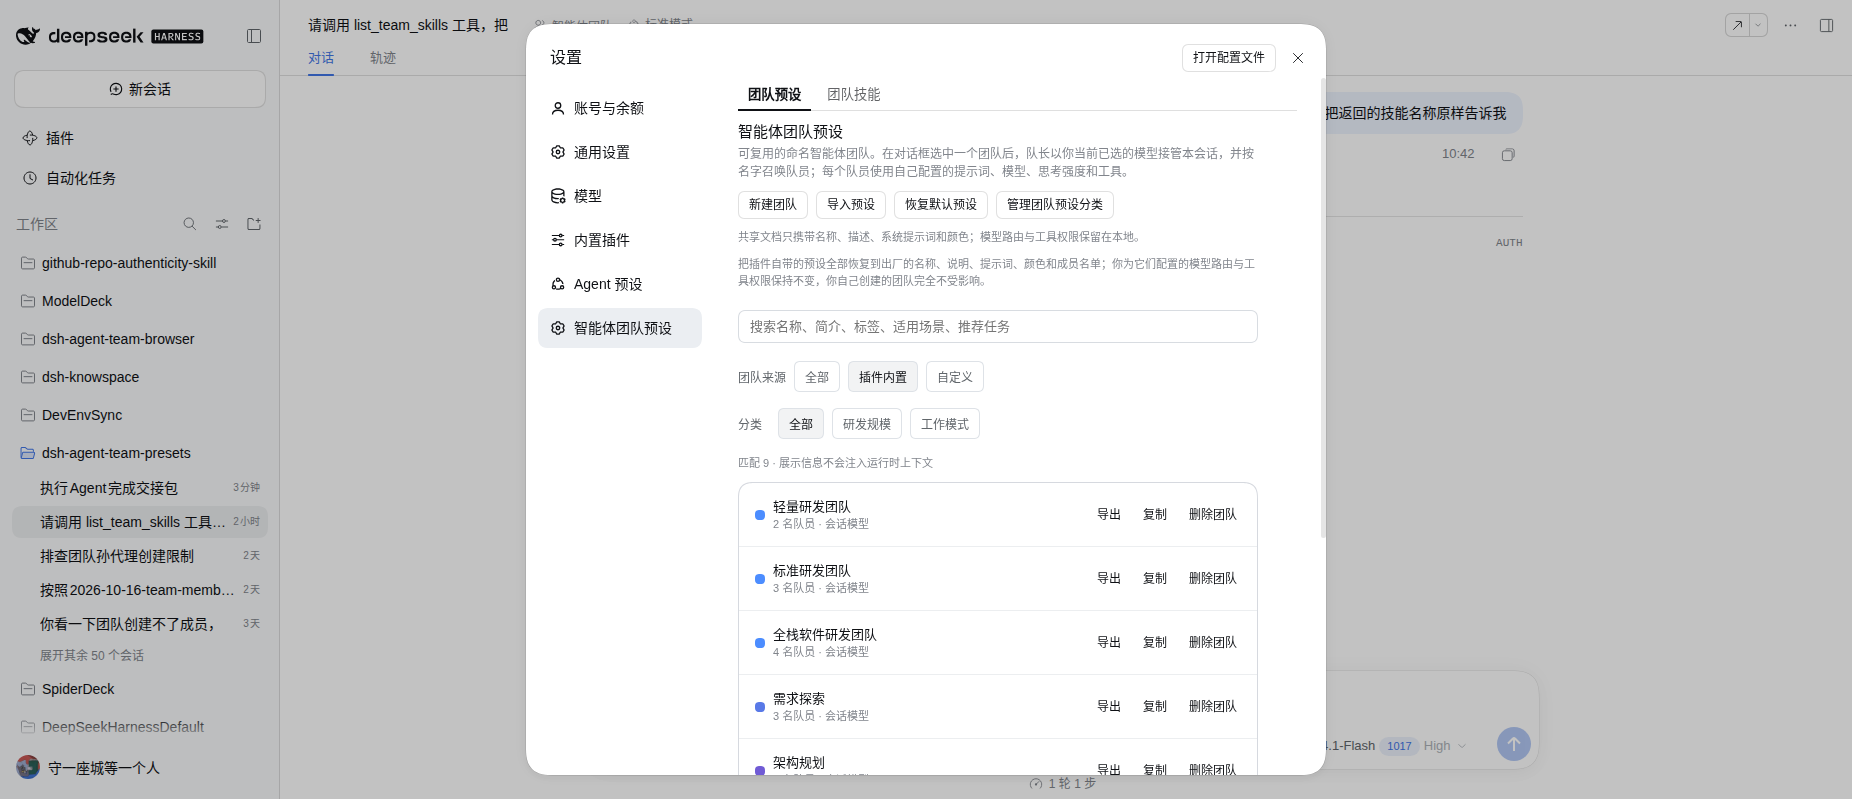
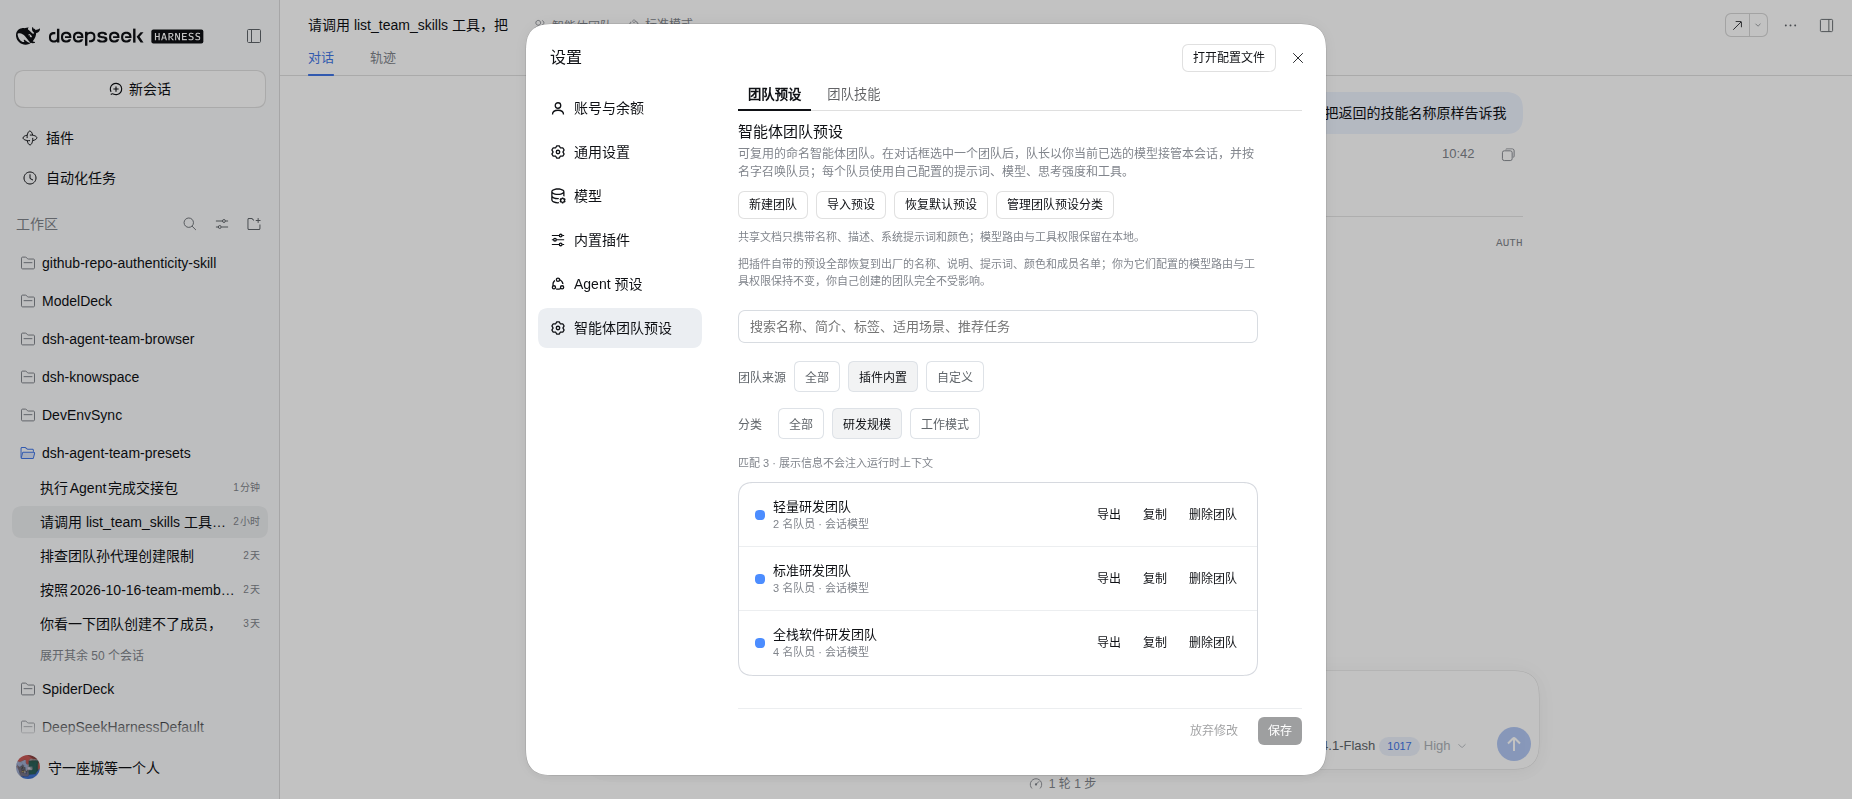
Make the two category sets mutually exclusive
The category row held two independent filters (shipped series and the reader's own
categories) and ANDed them, so picking 666 after 研发规模 left both highlighted and
the list at zero — a Team cannot belong to both.

Selecting either set now clears the other, 全部 always clears both, and the row is
verified step by step in the browser: 666 -> 0 (no Team in it), 研发规模 -> 3 with
666 dropped, built-in source hides the custom chips entirely.

diff --git a/lib/client.js b/lib/client.js
@@ -16666,26 +16666,26 @@ Set the \`cycles\` parameter to \`"ref"\` to resolve cyclical schemas with defs.
 			document.head.appendChild(style);
 		}
 		var ComposerTeamSelect_module_css_default = {
-			"popList": "Q4LFCW_popList",
-			"triggerLabel": "Q4LFCW_triggerLabel",
-			"popChips": "Q4LFCW_popChips",
-			"trigger": "Q4LFCW_trigger",
+			"accentDot": "Q4LFCW_accentDot",
+			"popHead": "Q4LFCW_popHead",
+			"popChipActive": "Q4LFCW_popChipActive",
+			"popover": "Q4LFCW_popover",
+			"failure": "Q4LFCW_failure",
 			"popClose": "Q4LFCW_popClose",
 			"popChip": "Q4LFCW_popChip",
-			"popChipActive": "Q4LFCW_popChipActive",
-			"failure": "Q4LFCW_failure",
-			"popOptionActive": "Q4LFCW_popOptionActive",
-			"popSearch": "Q4LFCW_popSearch",
-			"popHead": "Q4LFCW_popHead",
-			"wrap": "Q4LFCW_wrap",
-			"accentDot": "Q4LFCW_accentDot",
-			"popOptionSub": "Q4LFCW_popOptionSub",
-			"triggerIcon": "Q4LFCW_triggerIcon",
-			"popover": "Q4LFCW_popover",
-			"popOption": "Q4LFCW_popOption",
+			"popChips": "Q4LFCW_popChips",
 			"popGroup": "Q4LFCW_popGroup",
 			"popEmpty": "Q4LFCW_popEmpty",
-			"popOptionName": "Q4LFCW_popOptionName"
+			"popOptionActive": "Q4LFCW_popOptionActive",
+			"trigger": "Q4LFCW_trigger",
+			"triggerLabel": "Q4LFCW_triggerLabel",
+			"triggerIcon": "Q4LFCW_triggerIcon",
+			"popSearch": "Q4LFCW_popSearch",
+			"popOptionName": "Q4LFCW_popOptionName",
+			"popList": "Q4LFCW_popList",
+			"popOption": "Q4LFCW_popOption",
+			"wrap": "Q4LFCW_wrap",
+			"popOptionSub": "Q4LFCW_popOptionSub"
 		};
 
 
@@ -18990,78 +18990,78 @@ Set the \`cycles\` parameter to \`"ref"\` to resolve cyclical schemas with defs.
 			document.head.appendChild(style);
 		}
 		var TeamPresetsSection_module_css_default = {
-			"chevron": "_628ArG_chevron",
-			"empty": "_628ArG_empty",
-			"rows": "_628ArG_rows",
-			"toolGroup": "_628ArG_toolGroup",
-			"toolCheckbox": "_628ArG_toolCheckbox",
-			"skillCardName": "_628ArG_skillCardName",
-			"select": "_628ArG_select",
-			"rowText": "_628ArG_rowText",
-			"categoryPanel": "_628ArG_categoryPanel",
-			"muted": "_628ArG_muted",
-			"swatches": "_628ArG_swatches",
-			"conflictMember": "_628ArG_conflictMember",
+			"toolGroupHead": "_628ArG_toolGroupHead",
+			"conflictLead": "_628ArG_conflictLead",
 			"card": "_628ArG_card",
-			"entryRow": "_628ArG_entryRow",
-			"prompt": "_628ArG_prompt",
-			"chip": "_628ArG_chip",
-			"sectionTitle": "_628ArG_sectionTitle",
-			"selectLabel": "_628ArG_selectLabel",
-			"rowActions": "_628ArG_rowActions",
-			"footerActions": "_628ArG_footerActions",
-			"section": "_628ArG_section",
-			"fieldLabel": "_628ArG_fieldLabel",
 			"skillCardDesc": "_628ArG_skillCardDesc",
-			"actionRow": "_628ArG_actionRow",
-			"hint": "_628ArG_hint",
-			"entry": "_628ArG_entry",
-			"intro": "_628ArG_intro",
-			"crumb": "_628ArG_crumb",
-			"cardHead": "_628ArG_cardHead",
-			"swatch": "_628ArG_swatch",
-			"conflictName": "_628ArG_conflictName",
-			"swatchNone": "_628ArG_swatchNone",
+			"rowMeta": "_628ArG_rowMeta",
+			"rowActions": "_628ArG_rowActions",
+			"dot": "_628ArG_dot",
+			"panel": "_628ArG_panel",
 			"footer": "_628ArG_footer",
-			"rowMain": "_628ArG_rowMain",
-			"fileInput": "_628ArG_fileInput",
-			"choiceRow": "_628ArG_choiceRow",
-			"input": "_628ArG_input",
+			"sepTitle": "_628ArG_sepTitle",
 			"title": "_628ArG_title",
+			"footerNotes": "_628ArG_footerNotes",
+			"plainRows": "_628ArG_plainRows",
+			"warn": "_628ArG_warn",
+			"swatches": "_628ArG_swatches",
+			"textInput": "_628ArG_textInput",
+			"toolGrid": "_628ArG_toolGrid",
+			"skillCard": "_628ArG_skillCard",
+			"chipActive": "_628ArG_chipActive",
+			"select": "_628ArG_select",
+			"fieldLabel": "_628ArG_fieldLabel",
+			"skillCardName": "_628ArG_skillCardName",
+			"chevron": "_628ArG_chevron",
+			"pageHead": "_628ArG_pageHead",
+			"conflict": "_628ArG_conflict",
+			"rowText": "_628ArG_rowText",
+			"section": "_628ArG_section",
+			"listSearch": "_628ArG_listSearch",
+			"footerNote": "_628ArG_footerNote",
+			"skillCardTop": "_628ArG_skillCardTop",
+			"filterLabel": "_628ArG_filterLabel",
+			"toolGroup": "_628ArG_toolGroup",
+			"field": "_628ArG_field",
+			"actionRow": "_628ArG_actionRow",
+			"pillInput": "_628ArG_pillInput",
+			"choice": "_628ArG_choice",
+			"chip": "_628ArG_chip",
+			"conflictMember": "_628ArG_conflictMember",
+			"choiceRow": "_628ArG_choiceRow",
+			"rowName": "_628ArG_rowName",
+			"empty": "_628ArG_empty",
+			"page": "_628ArG_page",
 			"toolGroupToggle": "_628ArG_toolGroupToggle",
 			"addRow": "_628ArG_addRow",
-			"field": "_628ArG_field",
-			"warn": "_628ArG_warn",
-			"footerNotes": "_628ArG_footerNotes",
-			"sepTitle": "_628ArG_sepTitle",
-			"textInput": "_628ArG_textInput",
-			"skillGrid": "_628ArG_skillGrid",
-			"skillCardTag": "_628ArG_skillCardTag",
-			"toolGroupCount": "_628ArG_toolGroupCount",
-			"categoryPill": "_628ArG_categoryPill",
-			"filterRow": "_628ArG_filterRow",
-			"pageHead": "_628ArG_pageHead",
-			"panel": "_628ArG_panel",
-			"conflict": "_628ArG_conflict",
-			"chipActive": "_628ArG_chipActive",
-			"footerNote": "_628ArG_footerNote",
-			"conflictLead": "_628ArG_conflictLead",
-			"rowMeta": "_628ArG_rowMeta",
-			"pillInput": "_628ArG_pillInput",
-			"page": "_628ArG_page",
-			"listSearch": "_628ArG_listSearch",
-			"skillCard": "_628ArG_skillCard",
-			"choice": "_628ArG_choice",
-			"cardTitle": "_628ArG_cardTitle",
-			"plainRows": "_628ArG_plainRows",
-			"toolGrid": "_628ArG_toolGrid",
-			"skillCardTop": "_628ArG_skillCardTop",
-			"listToolbar": "_628ArG_listToolbar",
+			"hint": "_628ArG_hint",
+			"conflictName": "_628ArG_conflictName",
+			"footerActions": "_628ArG_footerActions",
+			"swatchNone": "_628ArG_swatchNone",
 			"chipRow": "_628ArG_chipRow",
-			"filterLabel": "_628ArG_filterLabel",
-			"dot": "_628ArG_dot",
-			"rowName": "_628ArG_rowName",
-			"toolGroupHead": "_628ArG_toolGroupHead"
+			"selectLabel": "_628ArG_selectLabel",
+			"muted": "_628ArG_muted",
+			"categoryPill": "_628ArG_categoryPill",
+			"rows": "_628ArG_rows",
+			"categoryPanel": "_628ArG_categoryPanel",
+			"intro": "_628ArG_intro",
+			"cardHead": "_628ArG_cardHead",
+			"rowMain": "_628ArG_rowMain",
+			"toolCheckbox": "_628ArG_toolCheckbox",
+			"entry": "_628ArG_entry",
+			"crumb": "_628ArG_crumb",
+			"input": "_628ArG_input",
+			"toolGroupCount": "_628ArG_toolGroupCount",
+			"skillCardTag": "_628ArG_skillCardTag",
+			"sectionTitle": "_628ArG_sectionTitle",
+			"swatch": "_628ArG_swatch",
+			"filterRow": "_628ArG_filterRow",
+			"fileInput": "_628ArG_fileInput",
+			"entryRow": "_628ArG_entryRow",
+			"skillGrid": "_628ArG_skillGrid",
+			"listToolbar": "_628ArG_listToolbar",
+			"cardTitle": "_628ArG_cardTitle",
+			"prompt": "_628ArG_prompt"
 		};
 
 
@@ -20491,12 +20491,12 @@ Set the \`cycles\` parameter to \`"ref"\` to resolve cyclical schemas with defs.
 							className: TeamPresetsSection_module_css_default.filterLabel,
 							children: t("filterCategory")
 						}),
-						source === "all" ? null : (0, react_jsx_runtime.jsx)("button", {
+						(0, react_jsx_runtime.jsx)("button", {
 							type: "button",
-							className: `${TeamPresetsSection_module_css_default.chip} ${(source === "builtin" ? series === "all" : category === "") ? TeamPresetsSection_module_css_default.chipActive : ""}`,
+							className: `${TeamPresetsSection_module_css_default.chip} ${series === "all" && category === "" ? TeamPresetsSection_module_css_default.chipActive : ""}`,
 							onClick: () => {
-								if (source === "builtin") setSeries("all");
-								else setCategory("");
+								setSeries("all");
+								setCategory("");
 							},
 							children: t("listAll")
 						}),
@@ -20505,6 +20505,7 @@ Set the \`cycles\` parameter to \`"ref"\` to resolve cyclical schemas with defs.
 							className: `${TeamPresetsSection_module_css_default.chip} ${series === entry.id ? TeamPresetsSection_module_css_default.chipActive : ""}`,
 							onClick: () => {
 								setSeries(series === entry.id ? "all" : entry.id);
+								setCategory("");
 							},
 							children: entry.id === "classic-development" ? t("seriesDevelopment") : t("seriesWorkModes")
 						}, entry.id)) : null,
@@ -20513,6 +20514,7 @@ Set the \`cycles\` parameter to \`"ref"\` to resolve cyclical schemas with defs.
 							className: `${TeamPresetsSection_module_css_default.chip} ${category === entry.id ? TeamPresetsSection_module_css_default.chipActive : ""}`,
 							onClick: () => {
 								setCategory(category === entry.id ? "" : entry.id);
+								setSeries("all");
 							},
 							children: entry.name
 						}, entry.id)) : null,
@@ -20608,51 +20610,51 @@ Set the \`cycles\` parameter to \`"ref"\` to resolve cyclical schemas with defs.
 			document.head.appendChild(style);
 		}
 		var TeamSkillsView_module_css_default = {
-			"title": "_5P1EWa_title",
-			"dot": "_5P1EWa_dot",
-			"fileArea": "_5P1EWa_fileArea",
-			"dotCustom": "_5P1EWa_dotCustom",
-			"actions": "_5P1EWa_actions",
-			"fileEditor": "_5P1EWa_fileEditor",
-			"panel": "_5P1EWa_panel",
-			"panelTitle": "_5P1EWa_panelTitle",
-			"empty": "_5P1EWa_empty",
-			"sub": "_5P1EWa_sub",
-			"tagWarn": "_5P1EWa_tagWarn",
-			"dialogBackdrop": "_5P1EWa_dialogBackdrop",
-			"dialogActions": "_5P1EWa_dialogActions",
-			"toolbar": "_5P1EWa_toolbar",
-			"row": "_5P1EWa_row",
-			"search": "_5P1EWa_search",
-			"fileTree": "_5P1EWa_fileTree",
-			"fileTop": "_5P1EWa_fileTop",
-			"field": "_5P1EWa_field",
-			"info": "_5P1EWa_info",
-			"dialog": "_5P1EWa_dialog",
 			"mini": "_5P1EWa_mini",
-			"muted": "_5P1EWa_muted",
-			"rowlist": "_5P1EWa_rowlist",
-			"chev": "_5P1EWa_chev",
-			"sectionTitle": "_5P1EWa_sectionTitle",
-			"segment": "_5P1EWa_segment",
-			"main": "_5P1EWa_main",
-			"tagOk": "_5P1EWa_tagOk",
+			"headText": "_5P1EWa_headText",
 			"label": "_5P1EWa_label",
-			"rowSub": "_5P1EWa_rowSub",
-			"active": "_5P1EWa_active",
-			"page": "_5P1EWa_page",
+			"pills": "_5P1EWa_pills",
+			"fileEditor": "_5P1EWa_fileEditor",
+			"search": "_5P1EWa_search",
+			"dialog": "_5P1EWa_dialog",
+			"toolbar": "_5P1EWa_toolbar",
+			"dialogBackdrop": "_5P1EWa_dialogBackdrop",
 			"headRow": "_5P1EWa_headRow",
 			"titleActions": "_5P1EWa_titleActions",
-			"messageFailed": "_5P1EWa_messageFailed",
-			"tag": "_5P1EWa_tag",
-			"code": "_5P1EWa_code",
-			"rowTitle": "_5P1EWa_rowTitle",
+			"muted": "_5P1EWa_muted",
 			"bindRow": "_5P1EWa_bindRow",
-			"message": "_5P1EWa_message",
+			"dialogActions": "_5P1EWa_dialogActions",
+			"page": "_5P1EWa_page",
+			"actions": "_5P1EWa_actions",
+			"main": "_5P1EWa_main",
+			"messageFailed": "_5P1EWa_messageFailed",
 			"crumb": "_5P1EWa_crumb",
-			"headText": "_5P1EWa_headText",
-			"pills": "_5P1EWa_pills",
-			"tagOrigin": "_5P1EWa_tagOrigin"
+			"sub": "_5P1EWa_sub",
+			"empty": "_5P1EWa_empty",
+			"active": "_5P1EWa_active",
+			"message": "_5P1EWa_message",
+			"fileTree": "_5P1EWa_fileTree",
+			"tagOk": "_5P1EWa_tagOk",
+			"title": "_5P1EWa_title",
+			"panel": "_5P1EWa_panel",
+			"code": "_5P1EWa_code",
+			"fileTop": "_5P1EWa_fileTop",
+			"row": "_5P1EWa_row",
+			"field": "_5P1EWa_field",
+			"dotCustom": "_5P1EWa_dotCustom",
+			"rowlist": "_5P1EWa_rowlist",
+			"chev": "_5P1EWa_chev",
+			"panelTitle": "_5P1EWa_panelTitle",
+			"info": "_5P1EWa_info",
+			"rowTitle": "_5P1EWa_rowTitle",
+			"tagWarn": "_5P1EWa_tagWarn",
+			"fileArea": "_5P1EWa_fileArea",
+			"segment": "_5P1EWa_segment",
+			"sectionTitle": "_5P1EWa_sectionTitle",
+			"rowSub": "_5P1EWa_rowSub",
+			"tagOrigin": "_5P1EWa_tagOrigin",
+			"dot": "_5P1EWa_dot",
+			"tag": "_5P1EWa_tag"
 		};
 
 

diff --git a/lib/types/client/TeamListView.js b/lib/types/client/TeamListView.js
@@ -40,10 +40,7 @@ export function TeamListView(props) {
                                 props.onImport(file);
                         } })] }), _jsx("p", { className: css.hint, children: t('importNote') }), _jsx("p", { className: css.hint, children: t('restoreDefaultsHint') }), props.importError === undefined
                 ? null
-                : _jsx("p", { className: css.warn, role: "status", children: t(props.importError) }), _jsx("div", { className: css.listToolbar, children: _jsx("input", { className: css.listSearch, value: query, placeholder: t('listSearch'), onChange: (event) => { setQuery(event.target.value); } }) }), _jsxs("div", { className: css.filterRow, children: [_jsx("span", { className: css.filterLabel, children: t('filterSource') }), _jsx("button", { type: "button", className: `${css.chip} ${source === 'all' ? css.chipActive : ''}`, onClick: () => { setSource('all'); }, children: t('listAll') }), _jsx("button", { type: "button", className: `${css.chip} ${source === 'builtin' ? css.chipActive : ''}`, onClick: () => { setSource('builtin'); setCategory(''); }, children: t('listBuiltin') }), _jsx("button", { type: "button", className: `${css.chip} ${source === 'custom' ? css.chipActive : ''}`, onClick: () => { setSource('custom'); setSeries('all'); }, children: t('listCustom') })] }), _jsxs("div", { className: css.filterRow, children: [_jsx("span", { className: css.filterLabel, children: t('filterCategory') }), source === 'all' ? null : (_jsx("button", { type: "button", className: `${css.chip} ${(source === 'builtin' ? series === 'all' : category === '') ? css.chipActive : ''}`, onClick: () => { if (source === 'builtin')
-                            setSeries('all');
-                        else
-                            setCategory(''); }, children: t('listAll') })), source !== 'custom' ? TEAM_SERIES.map(entry => (_jsx("button", { type: "button", className: `${css.chip} ${series === entry.id ? css.chipActive : ''}`, onClick: () => { setSeries(series === entry.id ? 'all' : entry.id); }, children: entry.id === 'classic-development' ? t('seriesDevelopment') : t('seriesWorkModes') }, entry.id))) : null, source !== 'builtin' ? [...(props.categories ?? [])].sort((left, right) => left.order - right.order).map(entry => (_jsx("button", { type: "button", className: `${css.chip} ${category === entry.id ? css.chipActive : ''}`, onClick: () => { setCategory(category === entry.id ? '' : entry.id); }, children: entry.name }, entry.id))) : null, source === 'custom' && (props.categories ?? []).length === 0
+                : _jsx("p", { className: css.warn, role: "status", children: t(props.importError) }), _jsx("div", { className: css.listToolbar, children: _jsx("input", { className: css.listSearch, value: query, placeholder: t('listSearch'), onChange: (event) => { setQuery(event.target.value); } }) }), _jsxs("div", { className: css.filterRow, children: [_jsx("span", { className: css.filterLabel, children: t('filterSource') }), _jsx("button", { type: "button", className: `${css.chip} ${source === 'all' ? css.chipActive : ''}`, onClick: () => { setSource('all'); }, children: t('listAll') }), _jsx("button", { type: "button", className: `${css.chip} ${source === 'builtin' ? css.chipActive : ''}`, onClick: () => { setSource('builtin'); setCategory(''); }, children: t('listBuiltin') }), _jsx("button", { type: "button", className: `${css.chip} ${source === 'custom' ? css.chipActive : ''}`, onClick: () => { setSource('custom'); setSeries('all'); }, children: t('listCustom') })] }), _jsxs("div", { className: css.filterRow, children: [_jsx("span", { className: css.filterLabel, children: t('filterCategory') }), _jsx("button", { type: "button", className: `${css.chip} ${series === 'all' && category === '' ? css.chipActive : ''}`, onClick: () => { setSeries('all'); setCategory(''); }, children: t('listAll') }), source !== 'custom' ? TEAM_SERIES.map(entry => (_jsx("button", { type: "button", className: `${css.chip} ${series === entry.id ? css.chipActive : ''}`, onClick: () => { setSeries(series === entry.id ? 'all' : entry.id); setCategory(''); }, children: entry.id === 'classic-development' ? t('seriesDevelopment') : t('seriesWorkModes') }, entry.id))) : null, source !== 'builtin' ? [...(props.categories ?? [])].sort((left, right) => left.order - right.order).map(entry => (_jsx("button", { type: "button", className: `${css.chip} ${category === entry.id ? css.chipActive : ''}`, onClick: () => { setCategory(category === entry.id ? '' : entry.id); setSeries('all'); }, children: entry.name }, entry.id))) : null, source === 'custom' && (props.categories ?? []).length === 0
                         ? _jsx("span", { className: css.filterLabel, children: t('filterNoCategory') })
                         : null] }), _jsxs("p", { className: css.hint, children: [t('listMatched'), " ", visible.length, " \u00B7 ", t('listNoInject')] }), props.teams.length === 0
                 ? _jsx("p", { className: css.empty, children: t('emptyTeams') })

diff --git a/src/client/TeamListView.tsx b/src/client/TeamListView.tsx
@@ -134,15 +134,20 @@ export function TeamListView(props: TeamListViewProps) {
       </div>
       <div className={css.filterRow}>
         <span className={css.filterLabel}>{t('filterCategory')}</span>
-        {source === 'all' ? null : (
-          <button type="button" className={`${css.chip} ${(source === 'builtin' ? series === 'all' : category === '') ? css.chipActive : ''}`} onClick={() => { if (source === 'builtin') setSeries('all'); else setCategory('') }}>{t('listAll')}</button>
-        )}
+        {/* One dimension, so the two sets are mutually exclusive: a Team cannot both
+            belong to a shipped series and to the reader's own category. Picking one
+            clears the other instead of ANDing into an empty list. */}
+        <button
+          type="button"
+          className={`${css.chip} ${series === 'all' && category === '' ? css.chipActive : ''}`}
+          onClick={() => { setSeries('all'); setCategory('') }}
+        >{t('listAll')}</button>
         {source !== 'custom' ? TEAM_SERIES.map(entry => (
           <button
             key={entry.id}
             type="button"
             className={`${css.chip} ${series === entry.id ? css.chipActive : ''}`}
-            onClick={() => { setSeries(series === entry.id ? 'all' : entry.id) }}
+            onClick={() => { setSeries(series === entry.id ? 'all' : entry.id); setCategory('') }}
           >{entry.id === 'classic-development' ? t('seriesDevelopment') : t('seriesWorkModes')}</button>
         )) : null}
         {source !== 'builtin' ? [...(props.categories ?? [])].sort((left, right) => left.order - right.order).map(entry => (
@@ -150,7 +155,7 @@ export function TeamListView(props: TeamListViewProps) {
             key={entry.id}
             type="button"
             className={`${css.chip} ${category === entry.id ? css.chipActive : ''}`}
-            onClick={() => { setCategory(category === entry.id ? '' : entry.id) }}
+            onClick={() => { setCategory(category === entry.id ? '' : entry.id); setSeries('all') }}
           >{entry.name}</button>
         )) : null}
         {source === 'custom' && (props.categories ?? []).length === 0
